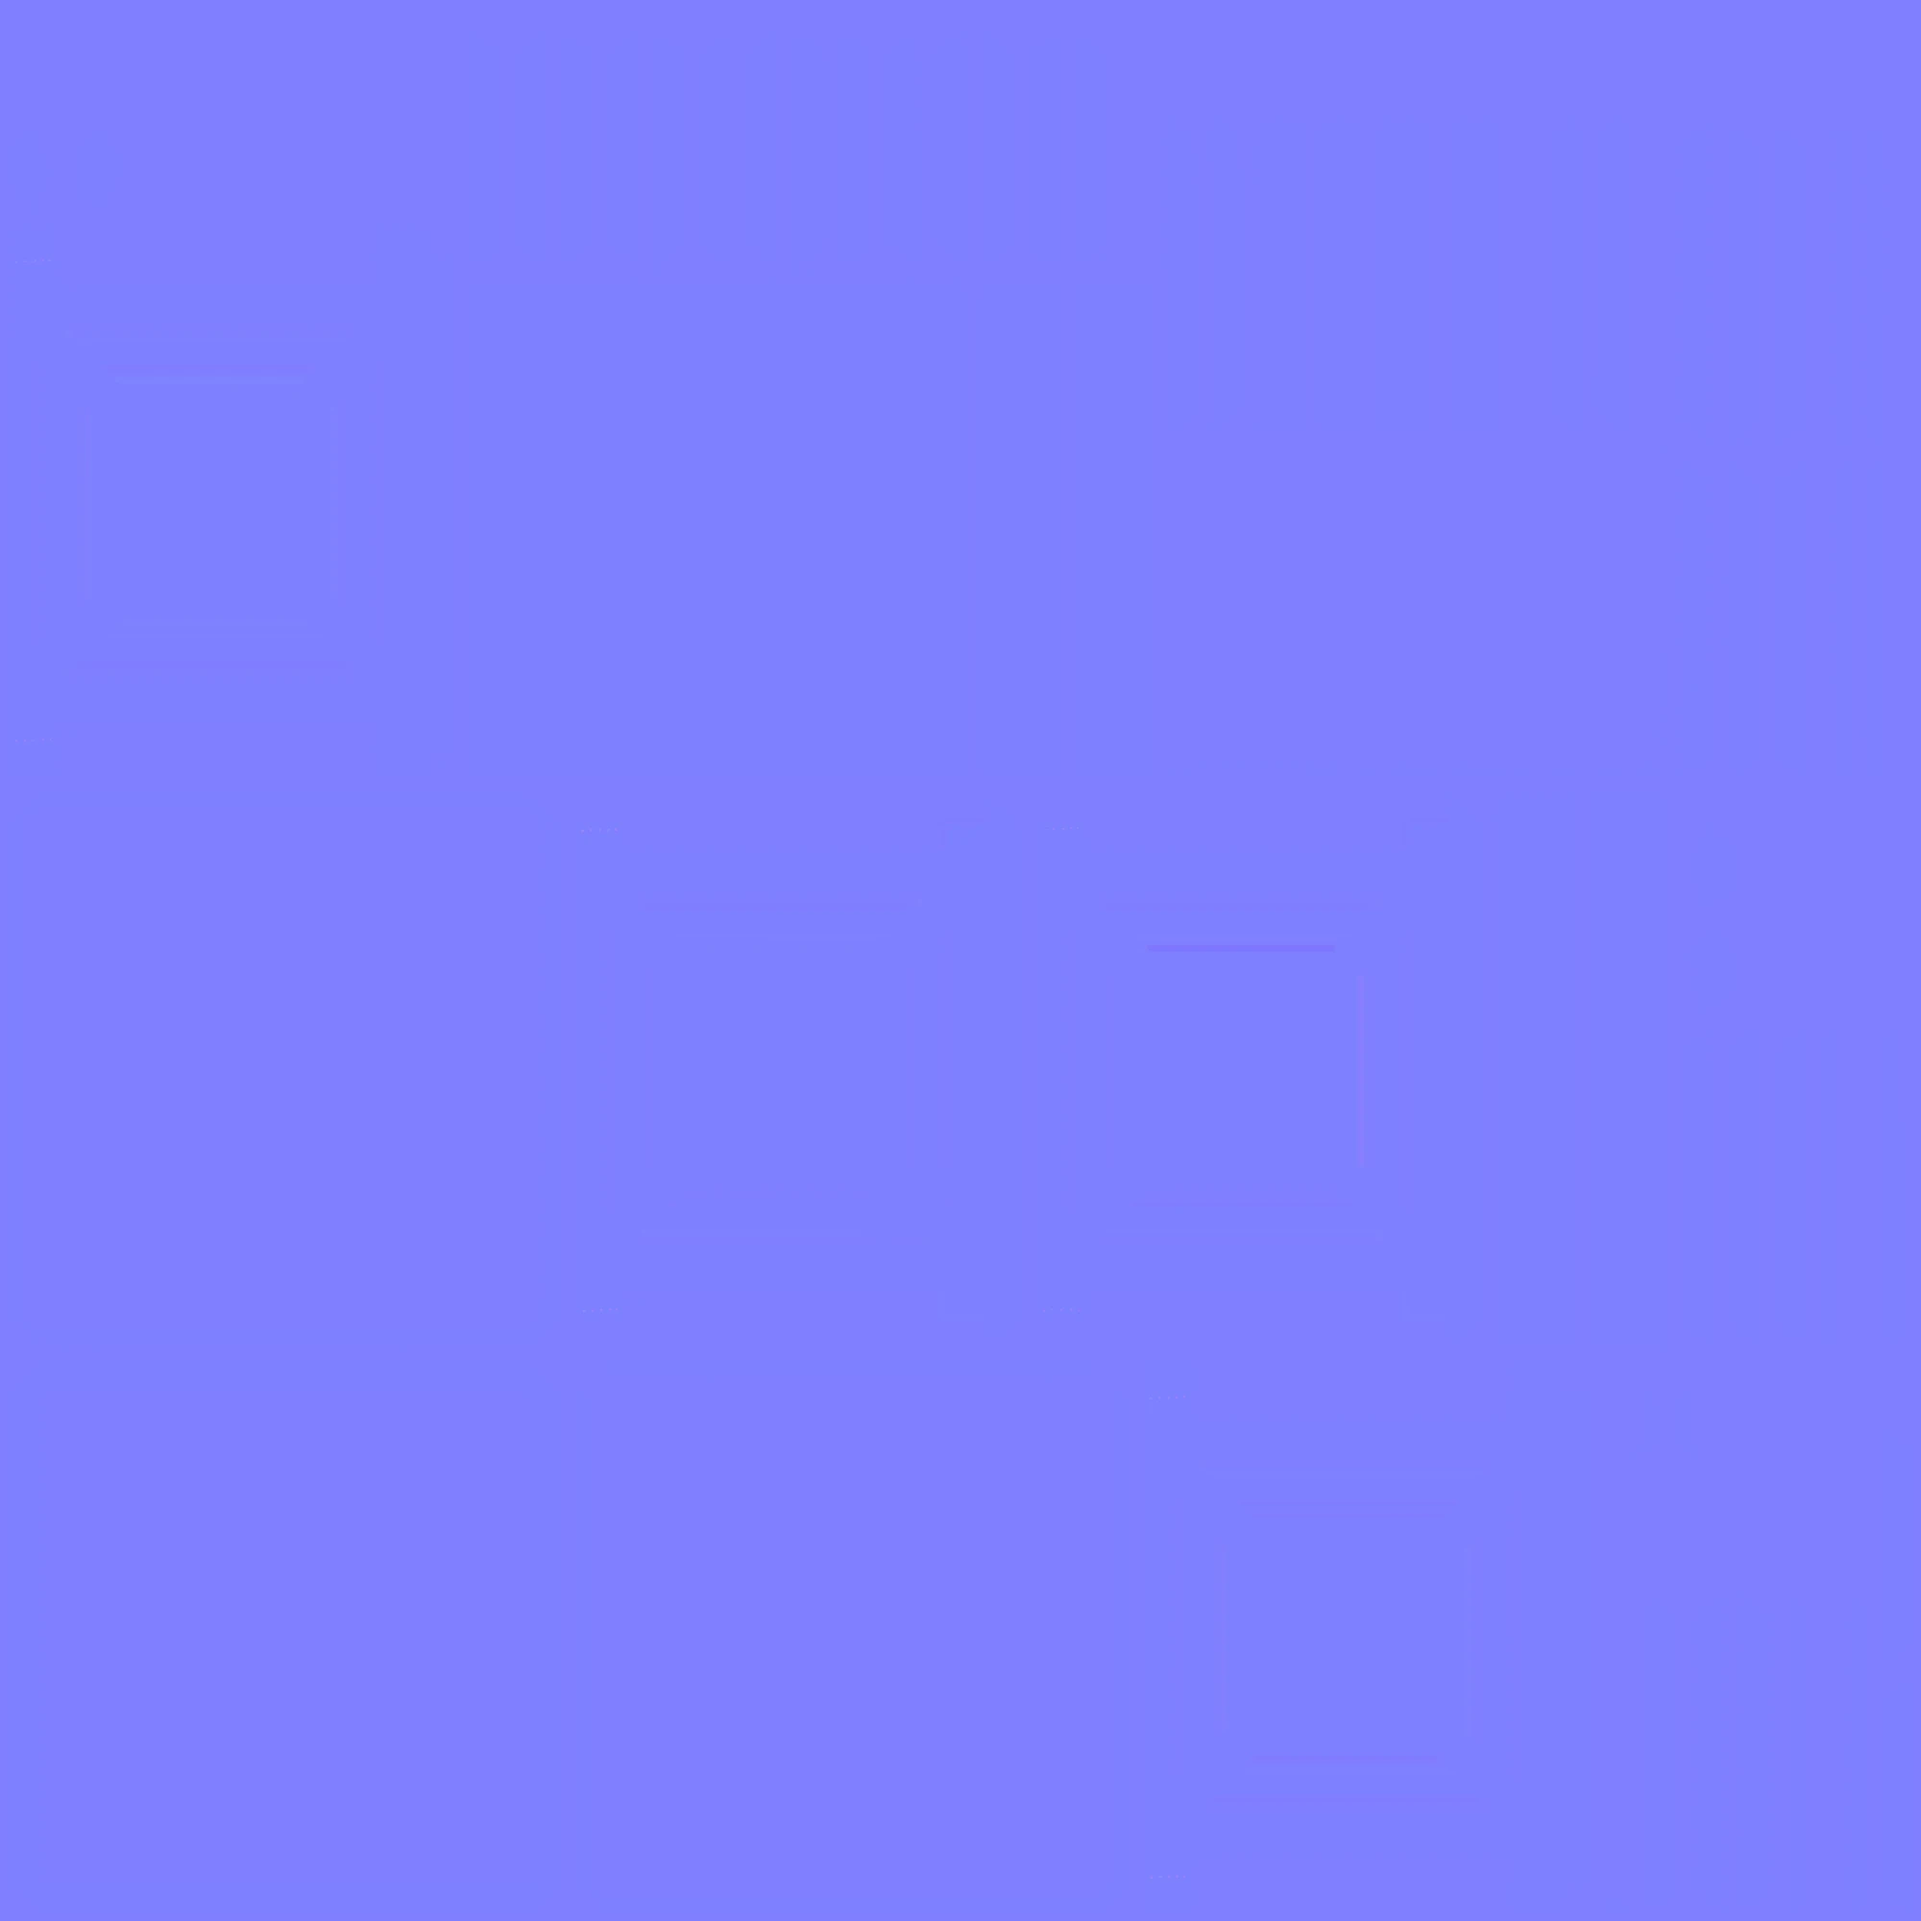
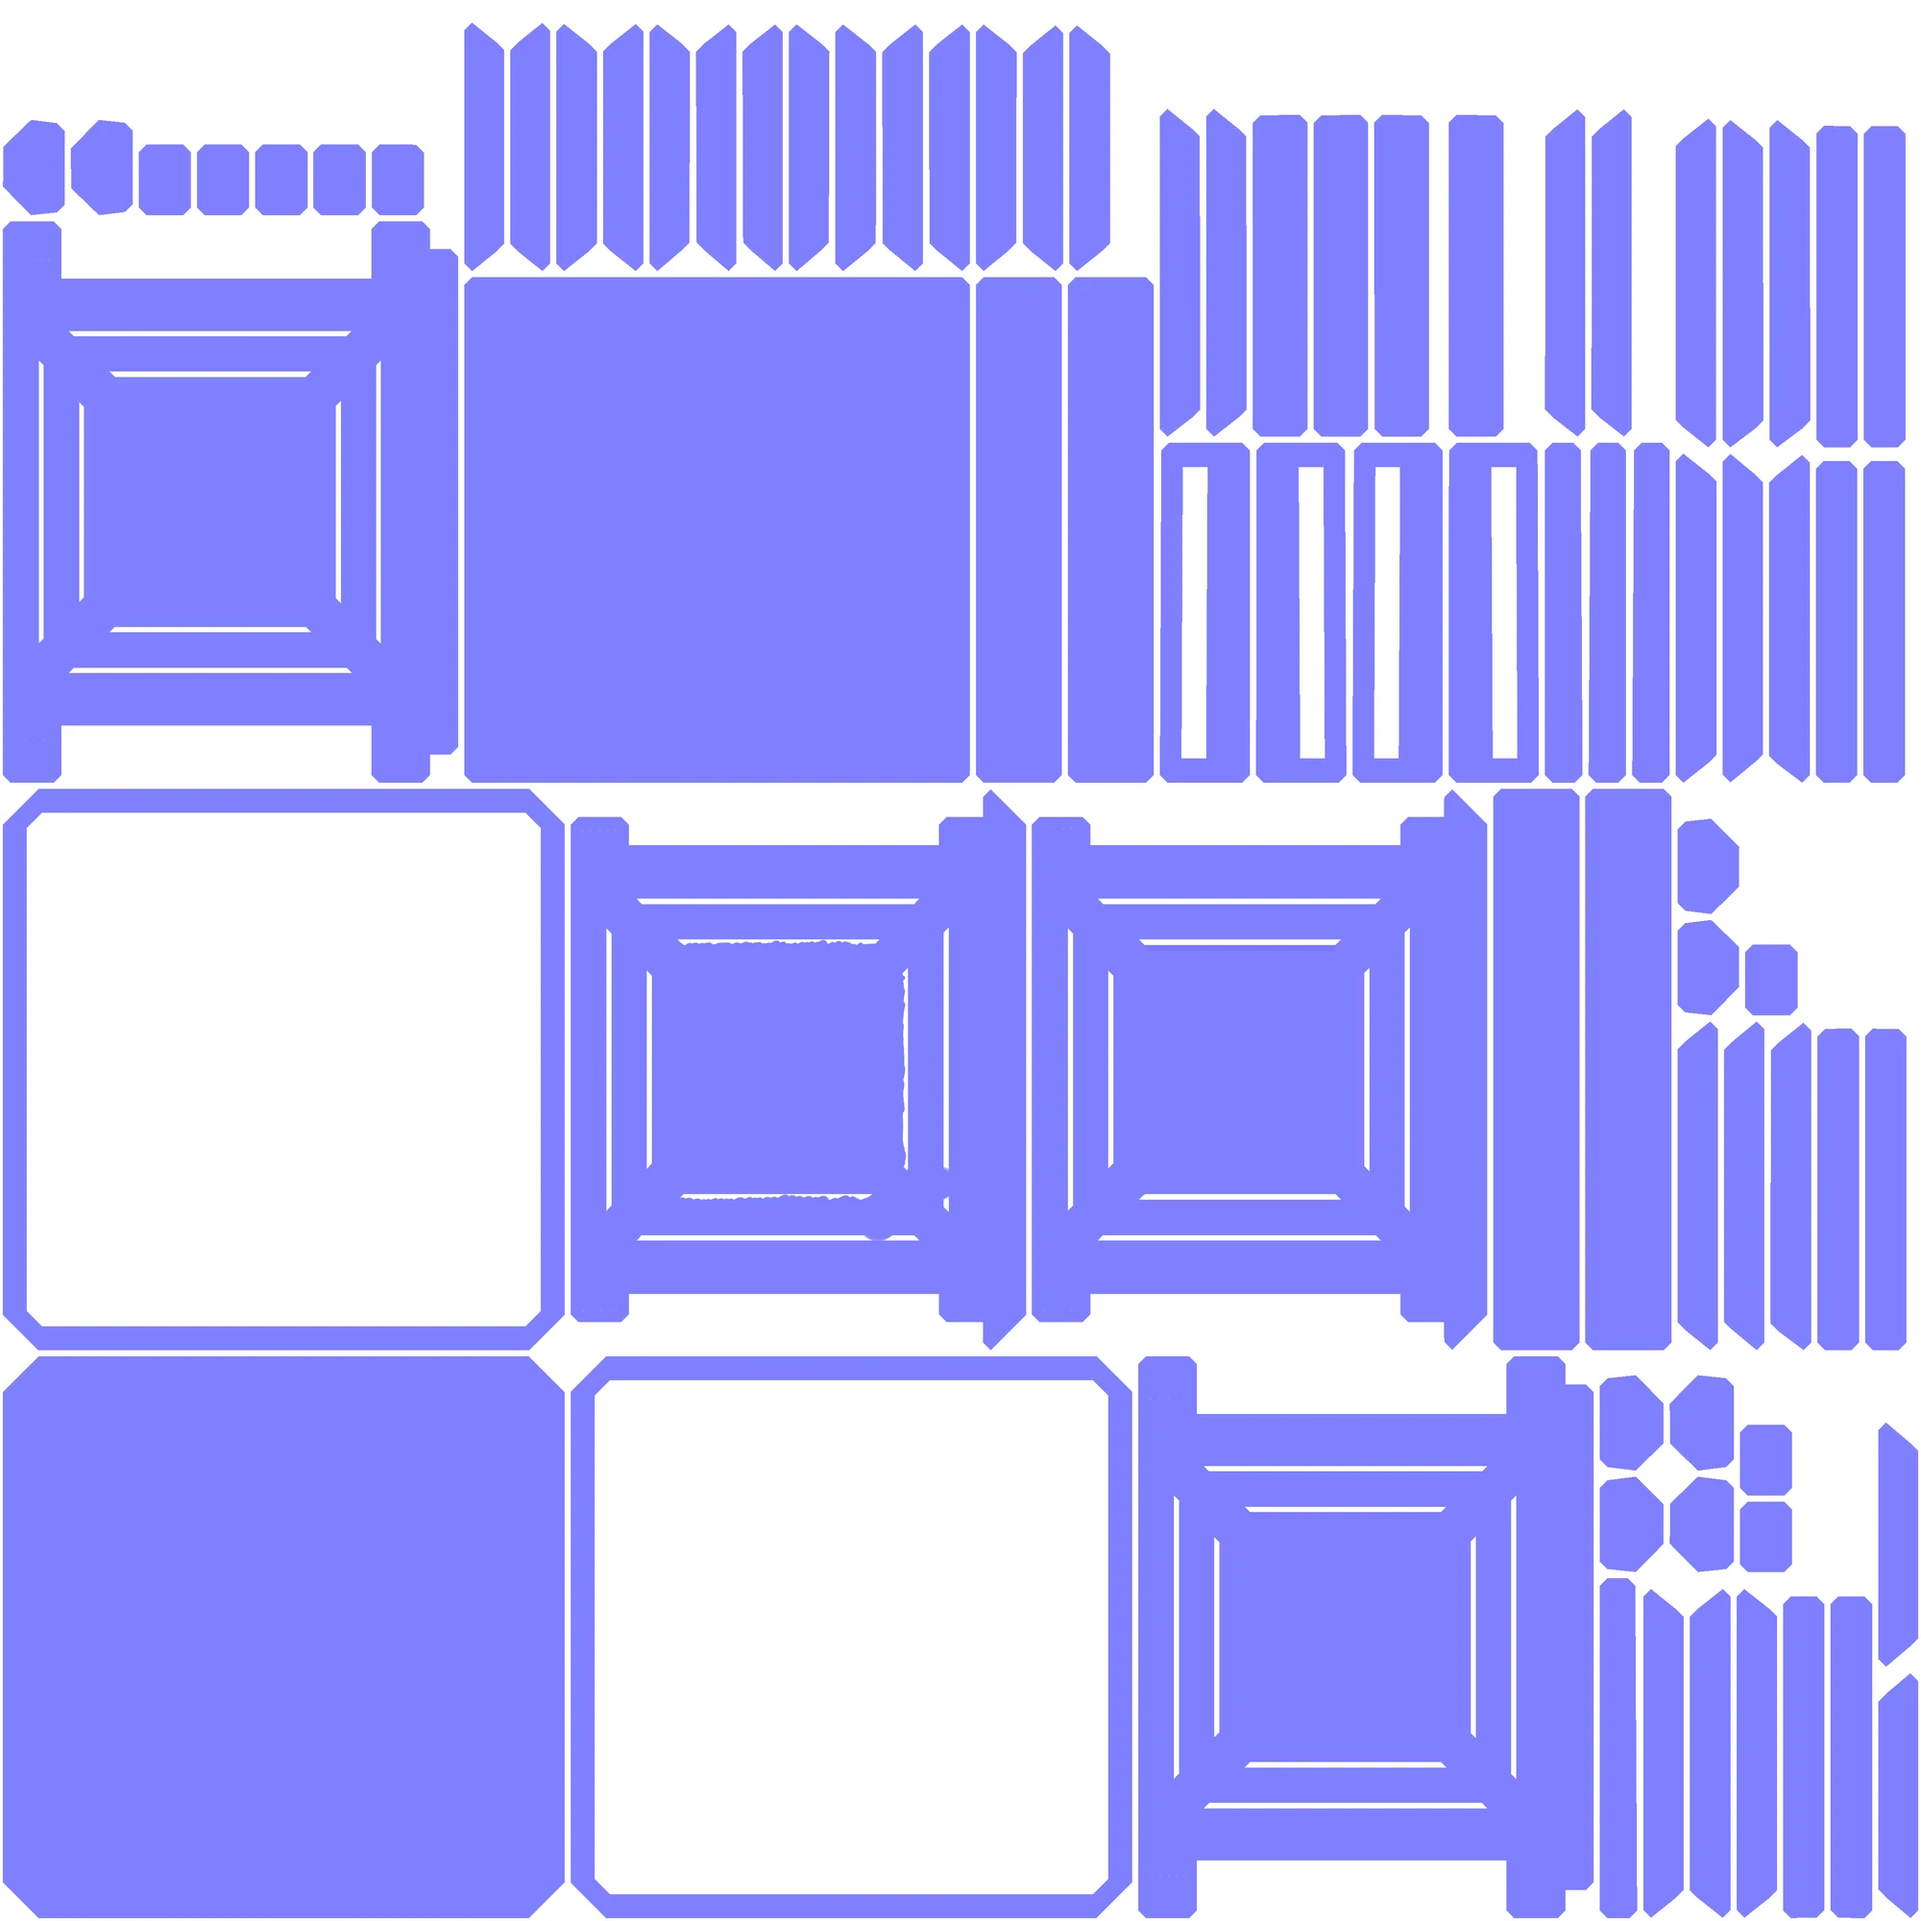
Props: normal map shown on white like the source
Claude-Session: https://claude.ai/code/session_01Qsz5bf4HYQSYf3Kh8UpjVa

diff --git a/index.html b/index.html
@@ -8,8 +8,8 @@
   <link rel="preconnect" href="https://fonts.googleapis.com">
   <link rel="preconnect" href="https://fonts.gstatic.com" crossorigin>
   <link href="https://fonts.googleapis.com/css2?family=Manrope:wght@400;500;600;700;800&family=Silkscreen&display=swap" rel="stylesheet">
-  <link rel="stylesheet" href="css/style.css?v=20261102-1002">
-  <link rel="stylesheet" href="css/spiderverse.css?v=20261102-1002">
+  <link rel="stylesheet" href="css/style.css?v=20261102-1003">
+  <link rel="stylesheet" href="css/spiderverse.css?v=20261102-1003">
 </head>
 <body>
   <div class="grain" aria-hidden="true"></div>
@@ -105,7 +105,7 @@
     <div class="modal-body" id="reel-body"></div>
   </div>
 
-  <script src="js/content.js?v=20261102-1002"></script>
-  <script src="js/main.js?v=20261102-1002"></script>
+  <script src="js/content.js?v=20261102-1003"></script>
+  <script src="js/main.js?v=20261102-1003"></script>
 </body>
 </html>

diff --git a/game.html b/game.html
@@ -7,8 +7,8 @@
   <link rel="preconnect" href="https://fonts.googleapis.com">
   <link rel="preconnect" href="https://fonts.gstatic.com" crossorigin>
   <link href="https://fonts.googleapis.com/css2?family=Manrope:wght@400;500;600;700;800&family=Silkscreen&display=swap" rel="stylesheet">
-  <link rel="stylesheet" href="css/style.css?v=20261102-1002">
-  <link rel="stylesheet" href="css/spiderverse.css?v=20261102-1002">
+  <link rel="stylesheet" href="css/style.css?v=20261102-1003">
+  <link rel="stylesheet" href="css/spiderverse.css?v=20261102-1003">
 </head>
 <body>
   <div class="grain" aria-hidden="true"></div>
@@ -34,7 +34,7 @@
     <div class="modal-body" id="reel-body"></div>
   </div>
 
-  <script src="js/content.js?v=20261102-1002"></script>
-  <script src="js/main.js?v=20261102-1002"></script>
+  <script src="js/content.js?v=20261102-1003"></script>
+  <script src="js/main.js?v=20261102-1003"></script>
 </body>
 </html>

diff --git a/project.html b/project.html
@@ -7,8 +7,8 @@
   <link rel="preconnect" href="https://fonts.googleapis.com">
   <link rel="preconnect" href="https://fonts.gstatic.com" crossorigin>
   <link href="https://fonts.googleapis.com/css2?family=Manrope:wght@400;500;600;700;800&family=Silkscreen&display=swap" rel="stylesheet">
-  <link rel="stylesheet" href="css/style.css?v=20261102-1002">
-  <link rel="stylesheet" href="css/spiderverse.css?v=20261102-1002">
+  <link rel="stylesheet" href="css/style.css?v=20261102-1003">
+  <link rel="stylesheet" href="css/spiderverse.css?v=20261102-1003">
 </head>
 <body>
   <div class="grain" aria-hidden="true"></div>
@@ -34,7 +34,7 @@
     <div class="modal-body" id="reel-body"></div>
   </div>
 
-  <script src="js/content.js?v=20261102-1002"></script>
-  <script src="js/main.js?v=20261102-1002"></script>
+  <script src="js/content.js?v=20261102-1003"></script>
+  <script src="js/main.js?v=20261102-1003"></script>
 </body>
 </html>
